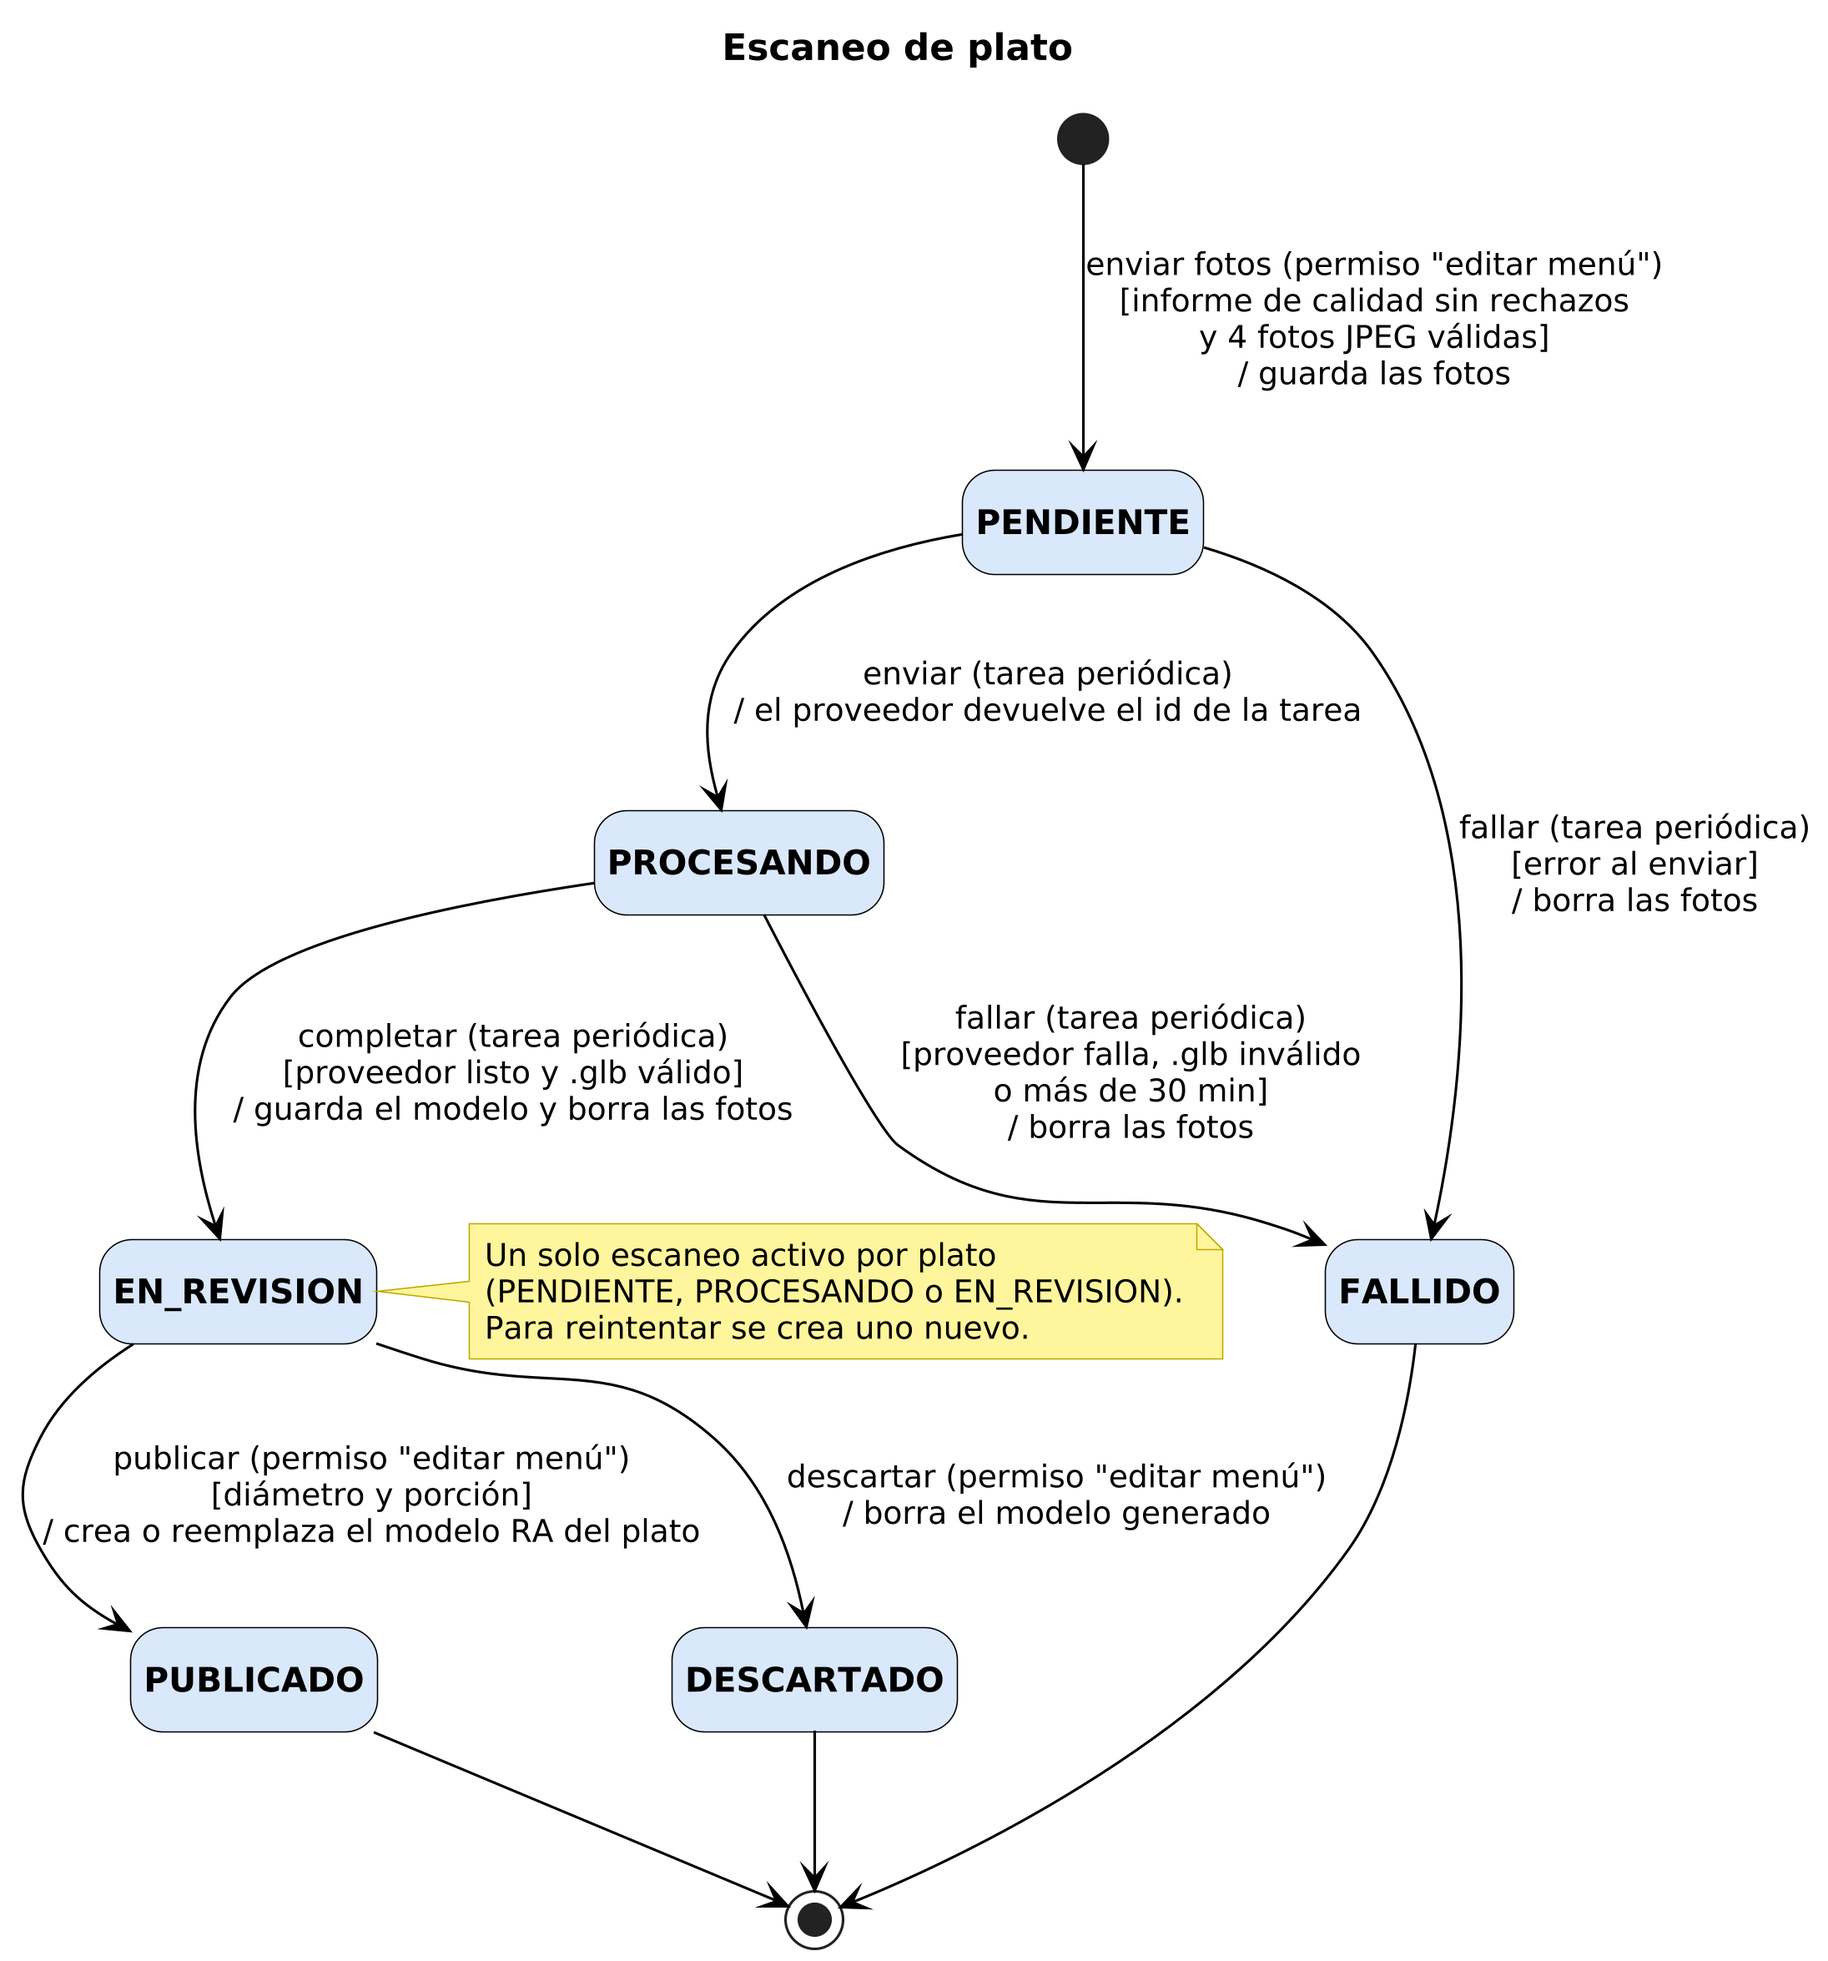
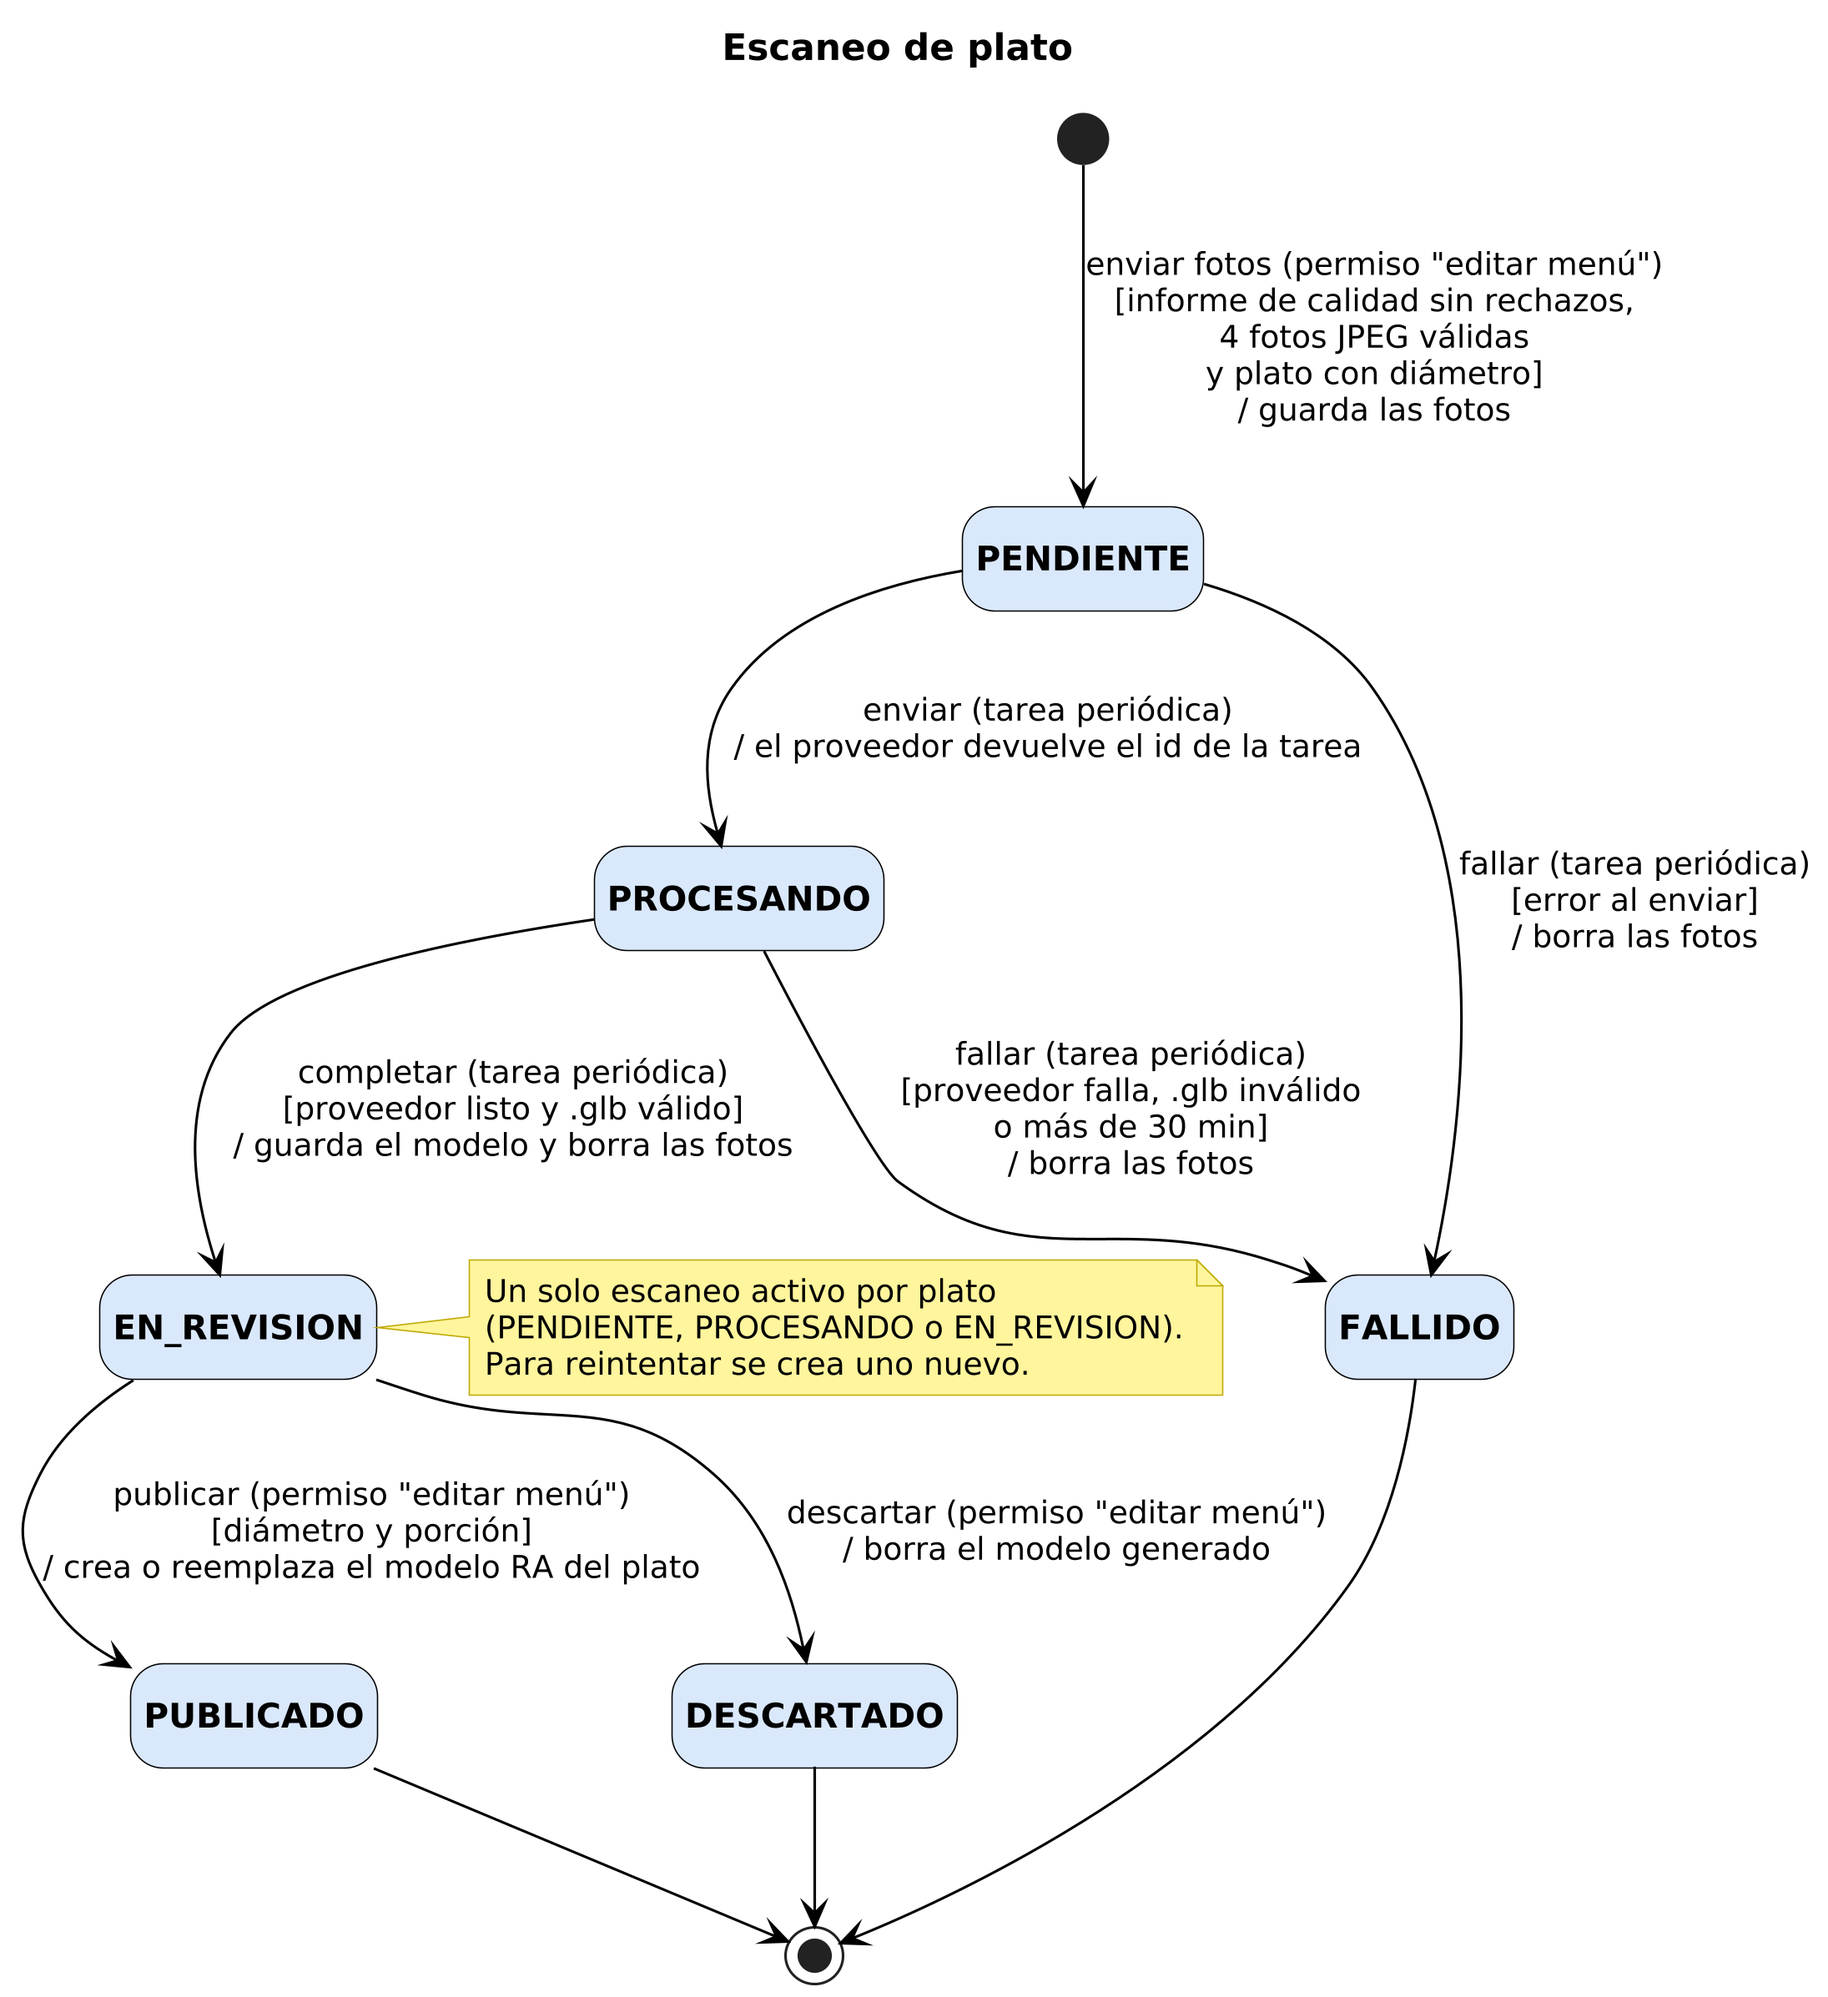
Exigir el diámetro del plato en el diagrama de estado del escaneo

diff --git a/docs/modelos/HISTORIAL.md b/docs/modelos/HISTORIAL.md
@@ -85,7 +85,7 @@ Agregado propio: Vialia no incluye diagramas de estado. Máquinas de estado UML 
 | Pedido | v1 | **v1 (05/10):** CONFIRMADO, EN_PREPARACION, LISTO, ENTREGADO y CANCELADO. Permisos «preparar pedidos» (hasta LISTO y cancelar) y «entregar pedidos» (LISTO → ENTREGADO). Cancelación solo desde CONFIRMADO, con devolución de stock. |
 | Pago | v1 | **v1 (05/10):** PENDIENTE, APROBADO y RECHAZADO, disparados por la notificación de Mercado Pago. RECHAZADO es final: un reintento crea un Pago nuevo con los beneficios revalidados. Notificación repetida ignorada (referencia externa única). *Menor (26/10):* el stock de los beneficios se reserva al pasar a PENDIENTE (antes se descontaba al aprobarse) y se devuelve al pasar a RECHAZADO. *Menor (28/10):* `PENDIENTE → RECHAZADO` pasa a darse por vencimiento (tarea programada, 15 min) si Mercado Pago no informa ningún cobro aprobado ni en proceso; un intento rechazado ya no cierra el pago, porque Checkout Pro permite reintentar con otro medio dentro de la misma preferencia. *Menor (28/10, revisión):* PENDIENTE → APROBADO también sin cobro (pago de $0 o pasarela de prueba) y por la tarea de vencimiento si Mercado Pago informa un cobro aprobado; PENDIENTE → RECHAZADO también si no se pudo iniciar el cobro; el vencimiento rechaza con 3 minutos de margen; un cobro aprobado sobre un pago ya resuelto queda para conciliar. *Menor (29/10, modo binario):* nota en PENDIENTE: Mercado Pago resuelve cada intento al instante como aprobado o rechazado, sin dejarlo en revisión. |
 | Planificación de turnos | v1 | **v1 (05/10):** BORRADOR (regenerable) y CONFIRMADA (no editable en esta versión). |
-| Escaneo de plato | v1 | **v1 (05/11):** PENDIENTE, PROCESANDO, EN_REVISION, PUBLICADO, DESCARTADO y FALLIDO. El gerente sube el video (permiso «editar menú») con el informe de calidad sin rechazos; la tarea periódica lo envía al proveedor, consulta el resultado y lo deja para revisar (o fallido si el proveedor falla, el `.glb` es inválido o pasan 30 minutos); el gerente publica (crea o reemplaza el modelo RA) o descarta. Los tres últimos son finales; un solo escaneo activo por plato. *Menor (20/11): escaneo en RA con fotos.* "Subir video" pasa a "enviar fotos", "formato MP4/MOV válido" a "4 fotos JPEG válidas" y "borra el video" a "borra las fotos". Los estados y las transiciones no cambian. |
+| Escaneo de plato | v1 | **v1 (05/11):** PENDIENTE, PROCESANDO, EN_REVISION, PUBLICADO, DESCARTADO y FALLIDO. El gerente sube el video (permiso «editar menú») con el informe de calidad sin rechazos; la tarea periódica lo envía al proveedor, consulta el resultado y lo deja para revisar (o fallido si el proveedor falla, el `.glb` es inválido o pasan 30 minutos); el gerente publica (crea o reemplaza el modelo RA) o descarta. Los tres últimos son finales; un solo escaneo activo por plato. *Menor (20/11): escaneo en RA con fotos.* "Subir video" pasa a "enviar fotos", "formato MP4/MOV válido" a "4 fotos JPEG válidas" y "borra el video" a "borra las fotos". Los estados y las transiciones no cambian. *Menor (20/11, revisión):* la condición de `[*] → PENDIENTE` suma "plato con diámetro", que el servicio ya exigía (sin diámetro responde 422). |
 
 ## Wireframes
 
